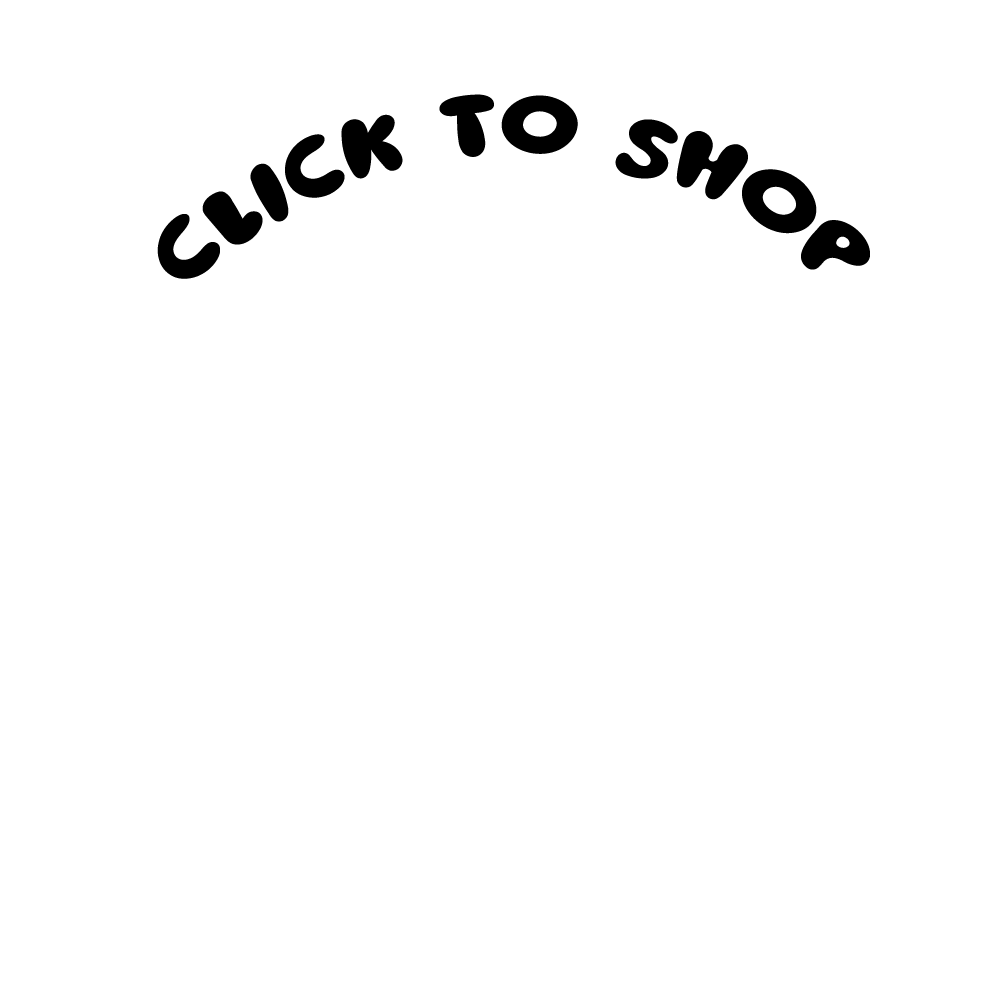
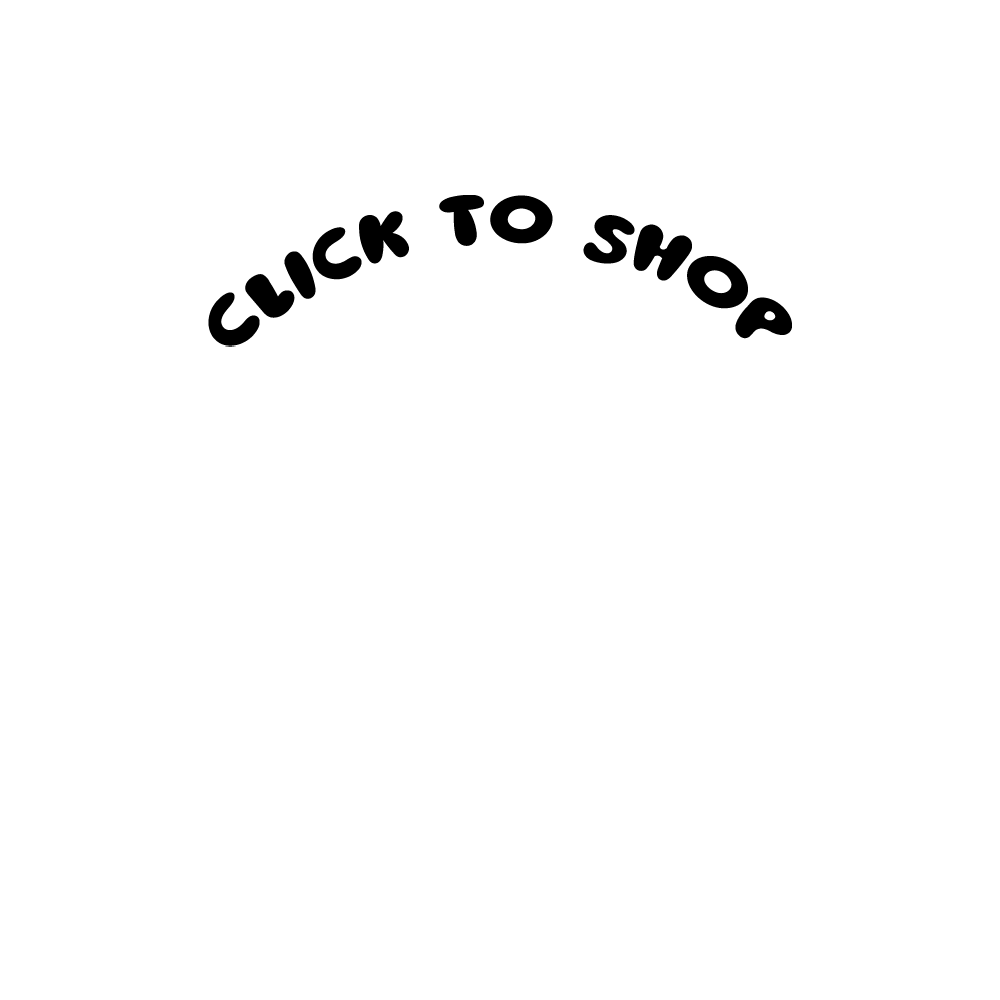
white fade + image size fixes

diff --git a/index.html b/index.html
@@ -22,23 +22,38 @@
 			max-width: 100%;
 			height: auto;
 		}
-		.logo-overlay {
+		.logo-link {
 			position: absolute;
 			top: 0;
 			left: 0;
 			width: 100%;
 			height: 100%;
-			transition: filter 0.2s ease-in-out;
 		}
-		.logo-overlay:hover {
-			filter: brightness(1.25);
+		.logo-link::after {
+			content: '';
+			position: absolute;
+			top: 0;
+			left: 0;
+			width: 100%;
+			height: 100%;
+			background-color: white;
+			opacity: 0;
+			transition: opacity 0.2s ease-in-out;
+		}
+		.logo-link:hover::after {
+			opacity: 0.4; /* Change this (between 0.1 and 1.0) to make the white fade stronger or softer */
+		}
+		.logo-overlay {
+			display: block;
+			width: 100%;
+			height: 100%;
 		}
 	</style>
 </head>
 <body>
 	<div class="image-wrapper">
 		<img src="background-text.png" alt="Click to enter" class="static-bg">
-		<a href="https://797682-45.myshopify.com/">
+		<a href="https://797682-45.myshopify.com/" class="logo-link">
 			<img src="logo.png" alt="Rubberhope Logo" class="logo-overlay">
 		</a>
 	</div>